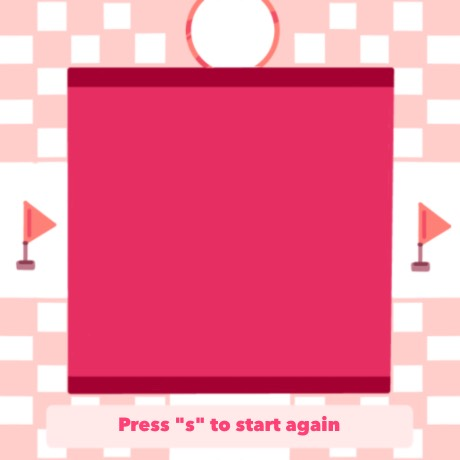
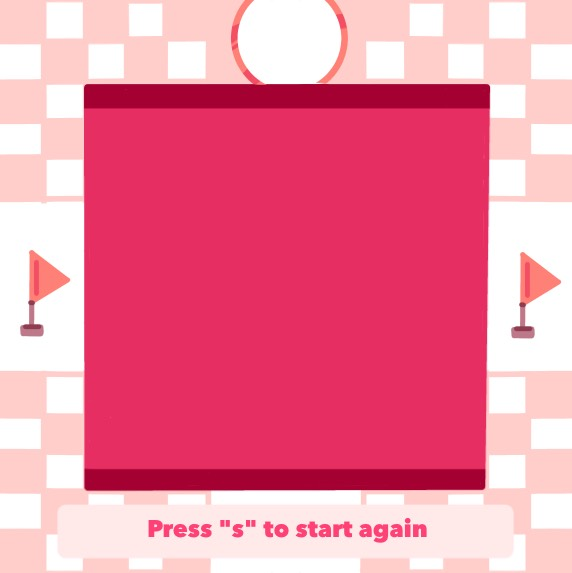
ADD

Changed region(s): [[0.2739, 0.8826, 0.7609, 0.9435]]

diff --git a/Constances.hpp b/Constances.hpp
@@ -1,10 +1,17 @@
 #pragma once
 
+//Tile's constants
 const int TILE_SIZE = 32;
 const int BUTTON_SPRITE_TOTAL = 12;
-const int MINE_COUNT = 12;
-const int ROW_SIZE = 10;
-const int COLUMN_SIZE = 10;
-const int SCREEN_WIDTH = 460;
-const int SCREEN_HEIGHT = 460;
+
+//Number of mines
+const int MINE_COUNT = 18;
+
+//Table's size
+const int ROW_SIZE = 12;
+const int COLUMN_SIZE = 12;
+
+//Screen dimension constants
+const int SCREEN_WIDTH = 572;
+const int SCREEN_HEIGHT = 572;
 const int DISTANCE_BETWEEN = (SCREEN_WIDTH - ROW_SIZE * TILE_SIZE) / 2;
